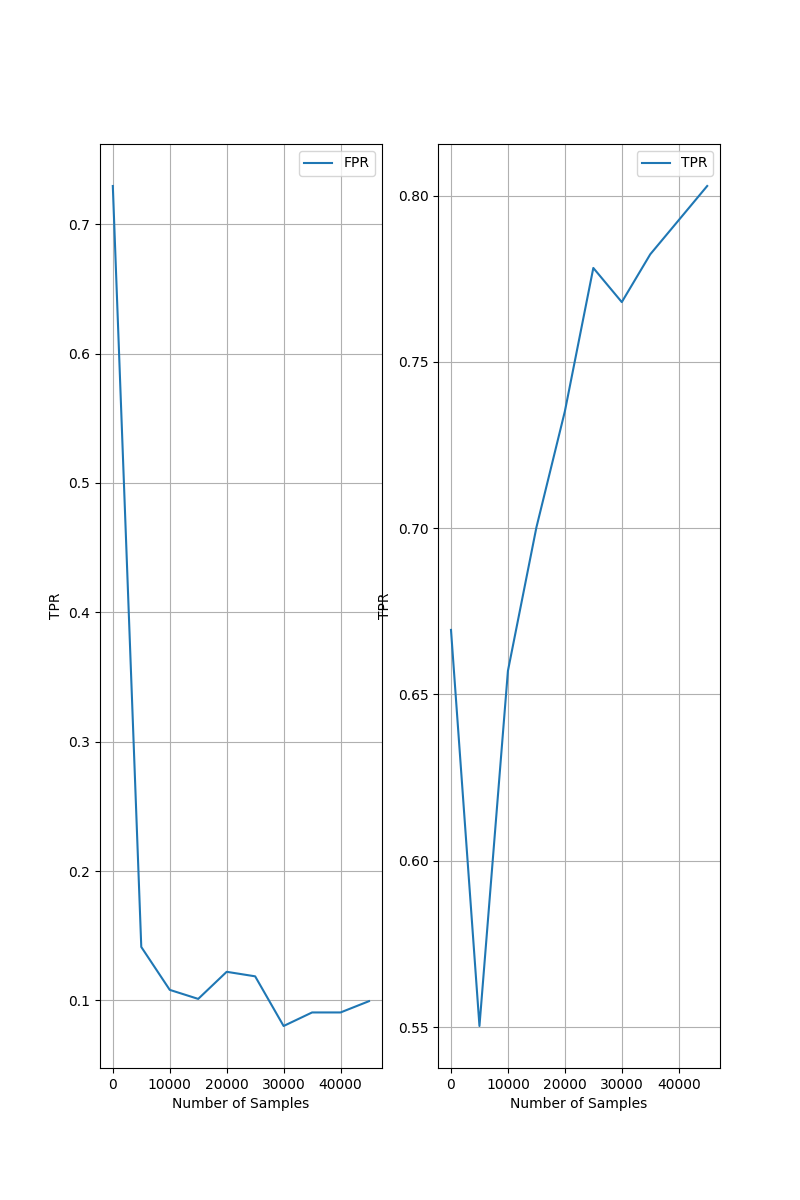
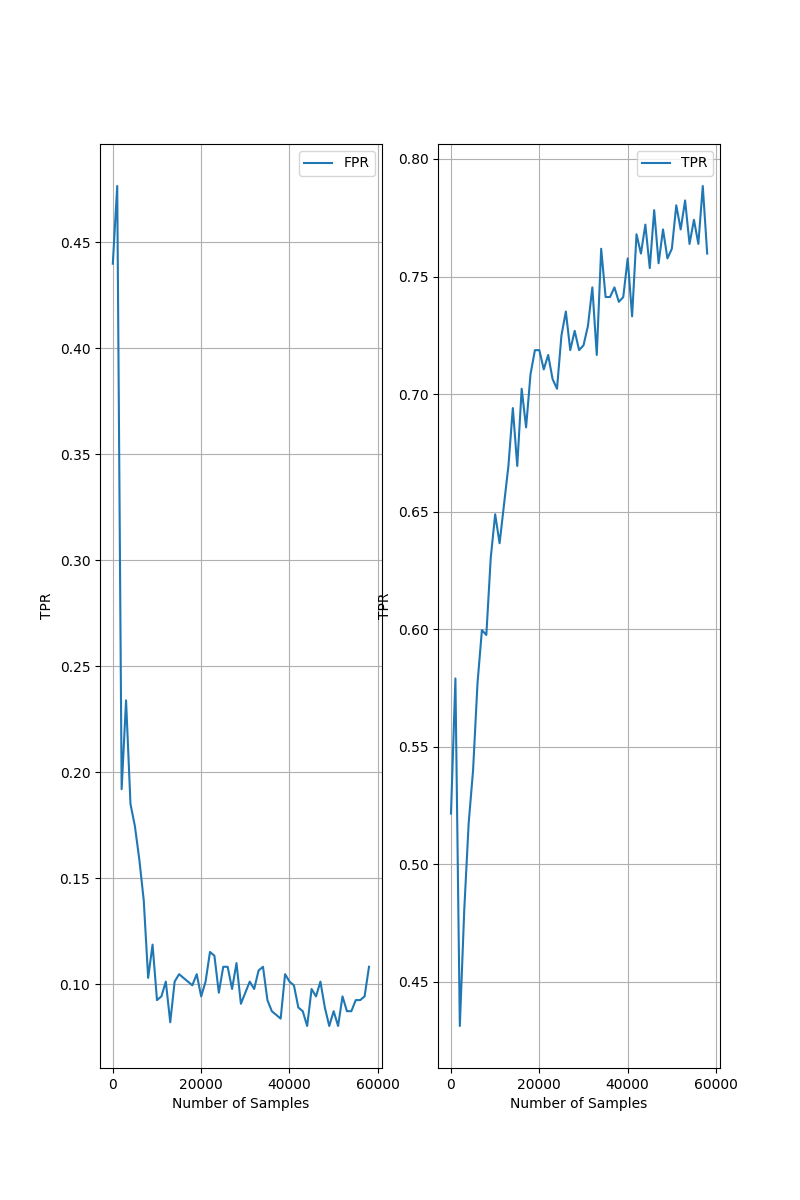
fixed active learning based main function

diff --git a/main_active_learning.py b/main_active_learning.py
@@ -1,0 +1,60 @@
+import pandas as pd
+from sklearn.model_selection import train_test_split, GridSearchCV
+from sklearn.metrics import confusion_matrix
+from sklearn.preprocessing import StandardScaler
+import matplotlib.pyplot as plt
+import numpy as np
+
+from tree_olnp.tree_olnp import tree_olnp
+
+# Target False Alarm
+# NP framework aims to maximize the detection power while upper bounding the false alarm rate
+# target false alarm rate should be determined by the user
+target_FPR = 0.1
+
+# every 5000 sample, calculate TPR and FPR of the transient model using test set
+# this application is specific to active learning to better show performance of the model
+test_freq = 1000
+
+# main 
+# np-nn works for 1,-1 classification
+# we expect data to be in tabular form with the latest column as target (check ./data/banana.csv)
+data = pd.read_csv('./data/banana.csv')
+X = data.iloc[:,:-1].values
+y = data.iloc[:,-1].values
+
+# train test split
+X_train, X_test, y_train, y_test = train_test_split(X, y, test_size=0.2, random_state=0)
+
+# normalization
+sc = StandardScaler()
+X_train = sc.fit_transform(X_train)
+X_test = sc.transform (X_test)
+
+# classifier definition
+# Note that cross validation is not applied here, it will be implemented in the future versions
+TreeOlnp = tree_olnp(
+    tfpr = target_FPR, 
+    projection_type = 'iterative_PCA', 
+    tree_depth=5, 
+    active_learning=True, 
+    exploration_prob=0.2, 
+    uncertainity_threshold=0.85)
+
+# training with test
+TreeOlnp.fit(X_train, y_train, X_test=X_test, y_test=y_test, test_freq=test_freq)
+
+# plot transient test performances
+f,ax = plt.subplots(1,2,figsize=(8,12))
+ax[0].plot(TreeOlnp.test_array_indices_, TreeOlnp.fpr_test_array_, label="FPR")
+ax[0].set_xlabel("Number of Samples")
+ax[0].set_ylabel("TPR")
+ax[0].grid()
+ax[0].legend()
+
+ax[1].plot(TreeOlnp.test_array_indices_, TreeOlnp.tpr_test_array_, label="TPR")
+ax[1].set_xlabel("Number of Samples")
+ax[1].set_ylabel("TPR")
+ax[1].grid()
+ax[1].legend()
+f.savefig('./figures/transient_test_performances.png')

diff --git a/main.py b/main.py
@@ -33,16 +33,14 @@ parameters = {
     'beta_init': [100],                # default, 100
     'sigmoid_h': [-1],                 # default, -1
     'Lambda':[0],                      # default, 0
-    'tree_depth':[2],                  # default, 2
+    'tree_depth':[2, 4],               # default, 2
     'split_prob':[0.5],                # default, 0.5
-    'node_loss_constant':[1],          # default, 1
-    'exploration_prob':[0.2],          # default, 0.2
-    'uncertainity_threshold':[0.7]     # default, 0.6
+    'node_loss_constant':[1]           # default, 1
     }
 
 # classifier definition
 # Note that cross validation is not applied here, it will be implemented in the future versions
-TreeOlnp = tree_olnp(tfpr = target_FPR, projection_type = 'iterative_PCA', active_learning=True)
+TreeOlnp = tree_olnp(tfpr = target_FPR, projection_type = 'iterative_PCA')
 
 # hyperparameter tuning
 clf = GridSearchCV(TreeOlnp, parameters, verbose=3, cv=2, n_jobs=-1)
@@ -96,7 +94,7 @@ for i in range(0, best_tree_olnp.tree_depth):
 ax[1, 1].legend()
 ax[1, 1].set_xlabel("Number of Samples")
 ax[1, 1].set_ylabel("Expert Weights")
-f.savefig('./figures/transient_performances.png')
+f.savefig('./figures/transient_train_performances.png')
 
 # plot decision boundaries if the input is 2 dimensional
 # create a mesh to plot in

diff --git a/README.md b/README.md
@@ -91,7 +91,7 @@ Proposed model is an online, nonlinear, ensemble (context tree based) NP classif
 # Learning Performance
 * Below graph visualizes how TPR, FPR, corresponding class weights and expert weights are being updated during training.
 * Note that NPNN augments data to 150k samples (shuffle + concatenation) for better convergence.
-<img src="figures/transient_performances.png">
+<img src="figures/transient_train_performances.png">
 
 # Expected Decision Boundaries
 Visualization of decision boundaries for 2D dataset.<br/>
